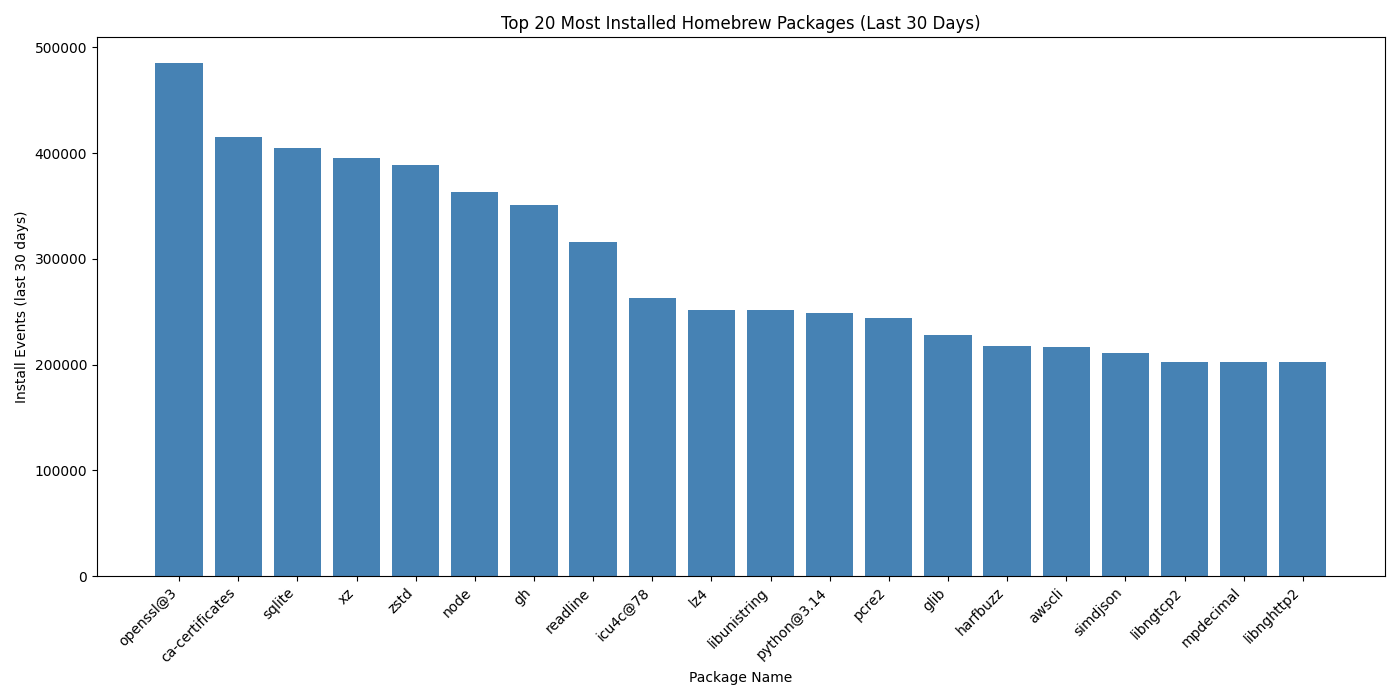
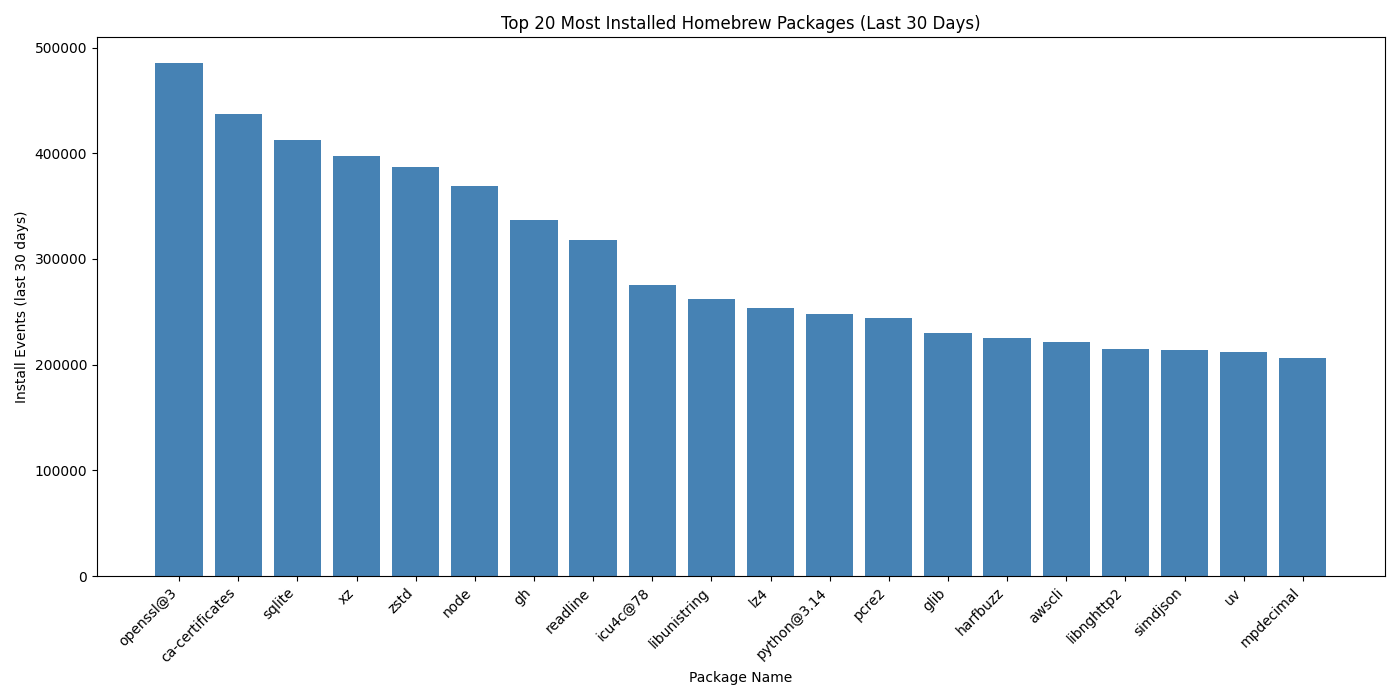
Just finished polishing the sqlite read and write code and set up the scheduler too

diff --git a/fetch_homebrew.py b/fetch_homebrew.py
@@ -1,72 +1,92 @@
-# We're importing the 'requests' library — this is what lets us
-# make HTTP requests (basically, visit URLs) from Python.
 import requests
+import sqlite3
 import matplotlib.pyplot as plt
+from datetime import date
 
-# This is the URL of the Homebrew Analytics API.
-# It returns the install data for the last 30 days in JSON format.
 URL = "https://formulae.brew.sh/api/analytics/install/30d.json"
 
-# This line actually sends the request to the URL and stores the response.
-# Think of 'response' as the envelope that came back from the vending machine —
-# it contains the data, plus some info about whether the request succeeded.
-response = requests.get(URL)
+def fetch_and_store():
+    """
+    Fetches a snapshot from the Homebrew API and stores
+    every package record in the SQLite database.
+    """
+    print(f"Fetching data for {date.today()}...")
 
-# Before we trust the data, we should check if the request actually worked.
-# Status code 200 means "success" in web language.
-# (You've probably seen 404 before — that means "not found". Same idea.)
-if response.status_code == 200:
-    print("Success! Data received.")
-    
-    # .json() converts the raw text response into a Python dictionary —
-    # a data structure Python can actually work with.
+    response = requests.get(URL)
+
+    if response.status_code != 200:
+        print(f"Request failed. Status code: {response.status_code}")
+        return
+
     data = response.json()
-    
-    # Let's see what keys (sections) are at the top level of this data.
-    # This is like opening the envelope and checking what's inside before reading it.
-    print("Top-level keys in the data:", data.keys())
-    
-    # Grab all the package records from the "items" key
-    items = data["items"] # list of items in data dicitonary
+    items = data["items"]
 
-    # only take the top 20 packages (they are already sorted by popularity)
-    top20 = items[:20] # list of first 20 items in items list (each object is a dictionary identical to the items list)
+    conn = sqlite3.connect("brew_data.db")
+    cursor = conn.cursor()
 
-    # Build two separate lists — one for names, one for counts.
-    # We also need to clean the count: remove the comma and convert to integer.
-    # '485,036' -> '485036' -> 485036
-    names = [item["formula"] for item in top20] # the name is stored under "formula"
-    counts = [int(item["count"].replace(",", "")) for item in top20]
+    cursor.execute("""
+        CREATE TABLE IF NOT EXISTS snapshots (
+            id INTEGER PRIMARY KEY AUTOINCREMENT,
+            snapshot_date TEXT,
+            formula TEXT,
+            count INTEGER,
+            percent REAL
+        )
+    """)
 
-    # --- Draw the bar chart ---
-    
-    # Create a figure (the canvas) and set its size in inches
+    today = str(date.today())
+
+    for item in items:
+        clean_count = int(item["count"].replace(",", ""))
+        clean_percent = float(item["percent"])
+
+        cursor.execute("""
+            INSERT INTO snapshots (snapshot_date, formula, count, percent)
+            VALUES (?, ?, ?, ?)
+        """, (today, item["formula"], clean_count, clean_percent))
+
+    conn.commit()
+    conn.close()
+
+    print(f"Done! {len(items)} records saved for {today}.")
+
+
+def generate_chart():
+    """
+    Reads the most recent snapshot from the database
+    and generates a bar chart of the top 20 packages.
+    """
+    conn = sqlite3.connect("brew_data.db")
+    cursor = conn.cursor()
+
+    cursor.execute("SELECT MAX(snapshot_date) FROM snapshots")
+    latest_date = cursor.fetchone()[0]
+
+    cursor.execute("""
+        SELECT formula, count FROM snapshots
+        WHERE snapshot_date = ?
+        ORDER BY count DESC
+        LIMIT 20
+    """, (latest_date,))
+
+    rows = cursor.fetchall()
+    conn.close()
+
+    names = [row[0] for row in rows]
+    counts = [row[1] for row in rows]
+
     plt.figure(figsize=(14, 7))
-    
-    # Draw the bars. range(20) gives us positions 0-19 on the x-axis.
     plt.bar(range(20), counts, color="steelblue")
-    
-    # Label each bar on the x-axis with the package name.
-    # rotation=45 tilts the labels so they don't overlap.
     plt.xticks(range(20), names, rotation=45, ha="right")
-    
-    # Add axis labels and a title
     plt.xlabel("Package Name")
     plt.ylabel("Install Events (last 30 days)")
-    plt.title("Top 20 Most Installed Homebrew Packages (Last 30 Days)")
-    
-    # tight_layout() automatically adjusts spacing so labels don't get cut off
+    plt.title(f"Top 20 Most Installed Homebrew Packages — Snapshot: {latest_date}")
     plt.tight_layout()
-    
-
-    # Save the chart as an image file instead of trying to display a window.
-    # This works 100% of the time regardless of your OS or display settings.
+    plt.savefig("brew_chart.png")
     print("Chart saved as brew_chart.png")
-    plt.savefig("brew_chart.png") # saving the plot as a png is a smarter and more reliable practice
-    plt.show()
-
-else:
-    # If something went wrong, print the error code so we know what happened.
-    print(f"Something went wrong. Status code: {response.status_code}")
 
 
+# Run both jobs once, then exit cleanly.
+# Windows Task Scheduler handles calling this script on a schedule.
+fetch_and_store()
+generate_chart()